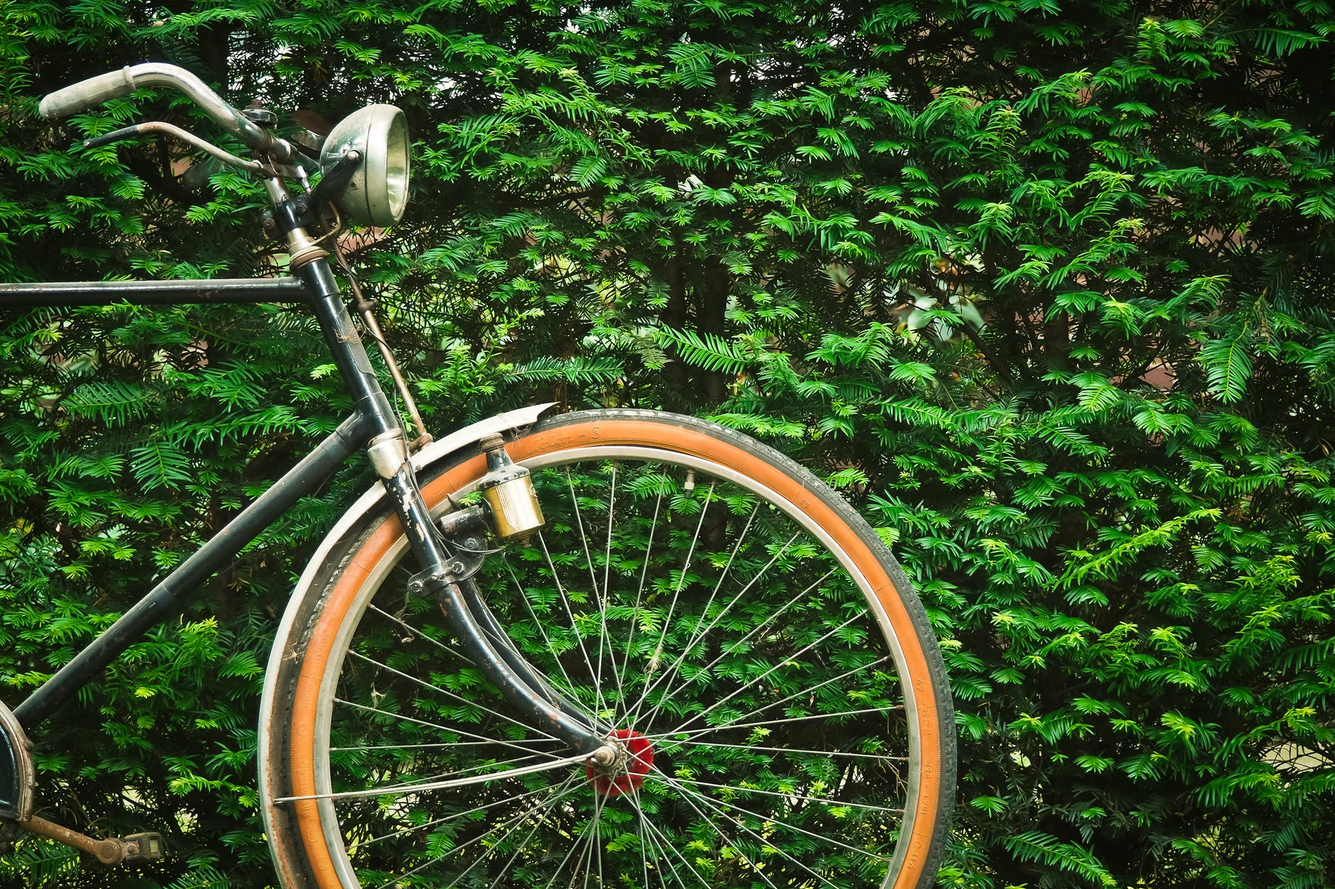
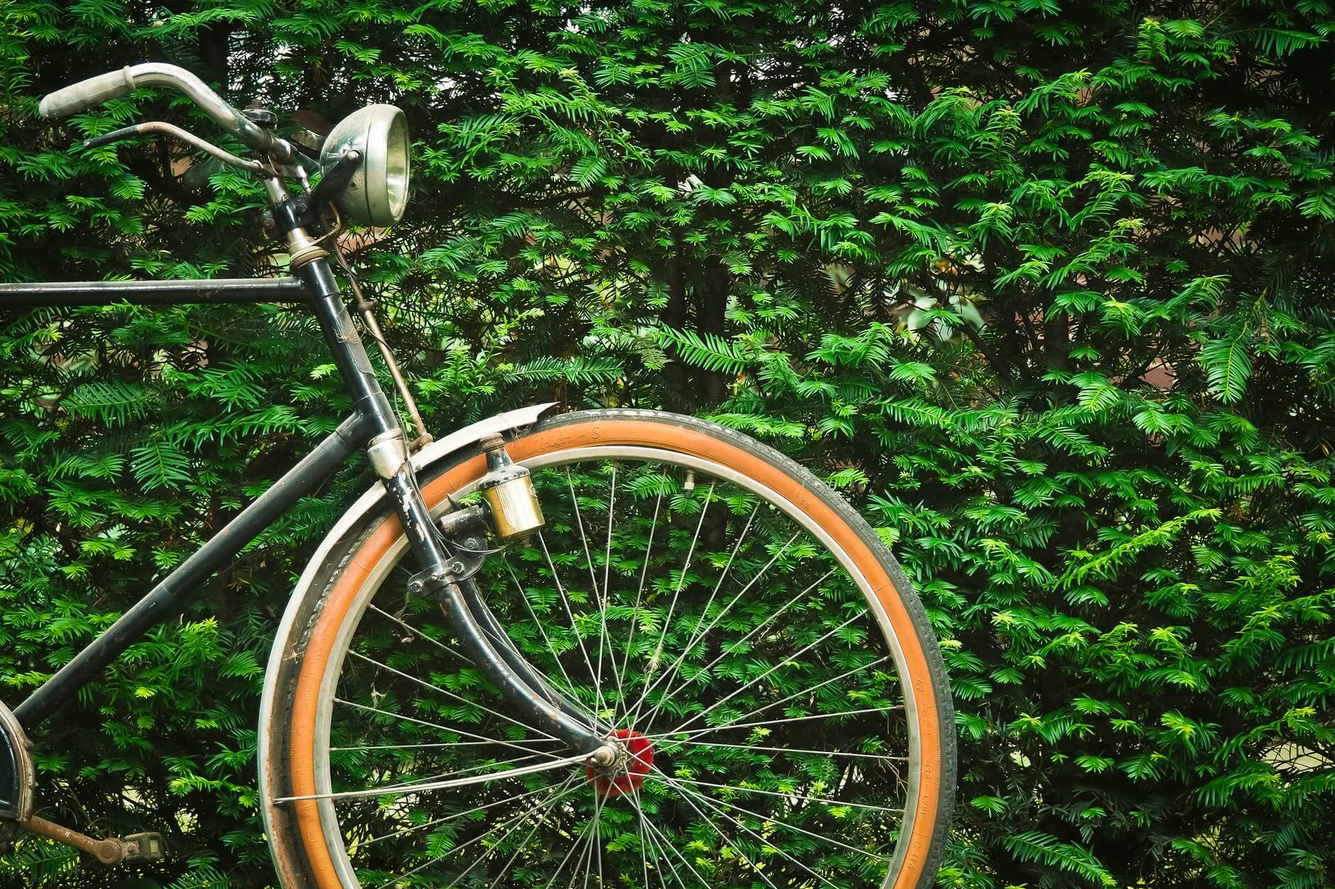
Compress images. Fix landing page login signup links

diff --git a/client/src/landingPage/login.html b/client/src/landingPage/login.html
@@ -15,7 +15,7 @@
 
 				<div class='signin-signup'>
 					<a href='login.html'>Login</a> 
-					<a href='signup'>Sign Up</a>
+					<a href='signup.html'>Sign Up</a>
 				</div>
 			</div>
 		</header>

diff --git a/client/src/landingPage/reset.html b/client/src/landingPage/reset.html
@@ -15,7 +15,7 @@
 
 				<div class='signin-signup'>
 					<a href='login.html'>Login</a> 
-					<a href='signup'>Sign Up</a>
+					<a href='signup.html'>Sign Up</a>
 				</div>
 			</div>
 		</header>

diff --git a/client/src/landingPage/signup.html b/client/src/landingPage/signup.html
@@ -15,7 +15,7 @@
 
 				<div class='signin-signup'>
 					<a href='login.html'>Login</a> 
-					<a href='signup'>Sign Up</a>
+					<a href='signup.html'>Sign Up</a>
 				</div>
 			</div>
 		</header>
